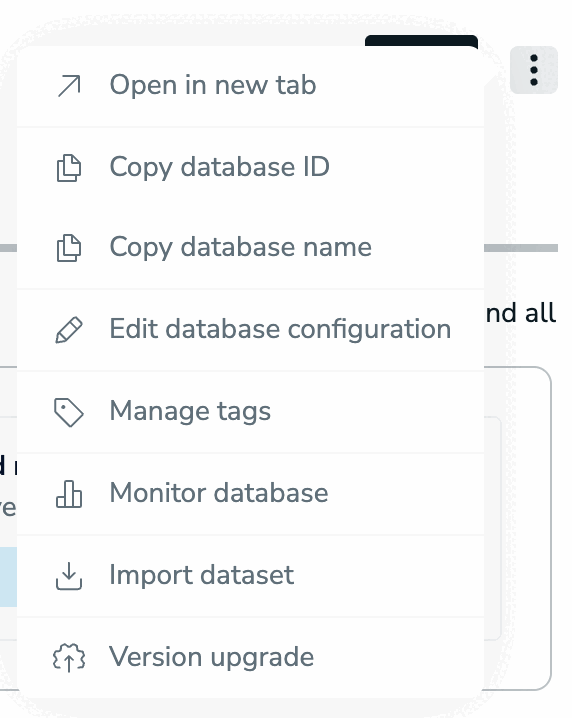
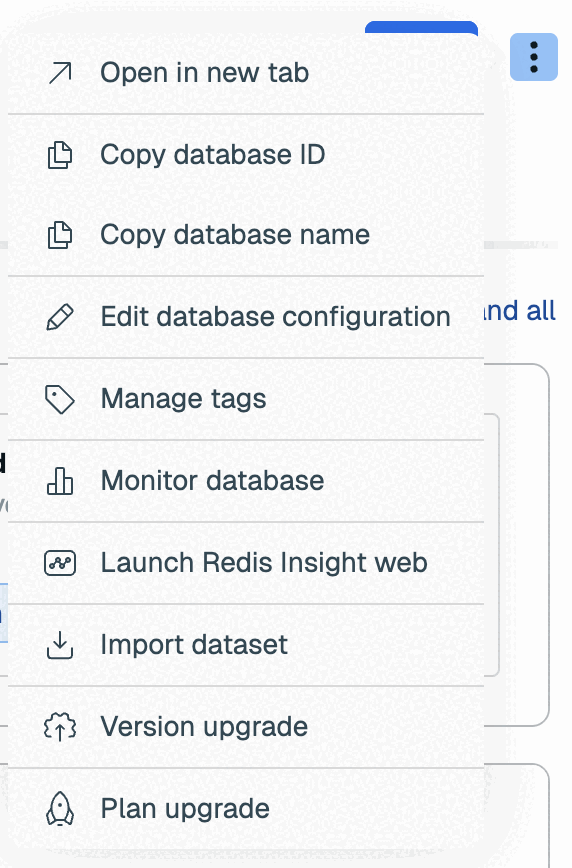
DOC-5955, DOC-5989, plus rebrand images for upgrade DB

diff --git a/content/operate/rc/databases/version-management/upgrade-version.md b/content/operate/rc/databases/version-management/upgrade-version.md
@@ -12,17 +12,7 @@ aliases:
   - /rc/databases/upgrade-version
 ---
 
-Database version upgrade options depend on your plan type.
-
-## Redis Cloud Essentials
-
-All new Redis Cloud Essentials databases are on the latest available version of Redis.
-
-Redis will notify users when new database versions are available, but upgrades must be done manually.
-
-## Redis Cloud Pro
-
-You can upgrade Redis Cloud Pro databases that are not on the latest available version of Redis to a later version at any time.
+You can upgrade databases that are not on the latest available version of Redis to a later version at any time.
 
 {{< note >}}
 Please keep in mind the following before upgrading your database version:
@@ -40,9 +30,9 @@ Please keep in mind the following before upgrading your database version:
 - You must upgrade the target database in an [Active-Passive]({{< relref "/operate/rc/databases/migrate-databases#sync-using-active-passive" >}}) setup before you upgrade the source database to prevent compatibility issues.
 {{< /note >}}
 
-### Upgrade Redis Cloud Pro database
+## Upgrade database
 
-To upgrade a Redis Cloud Pro database: 
+To upgrade a Redis Cloud database: 
 
 1. Choose your database from the **Databases** list to open your database page. Select **More actions > Version upgrade**.
 
@@ -64,7 +54,7 @@ The database will start upgrading to the selected version immediately. The upgra
 
 You can continue to use the Redis Cloud console for other tasks during the upgrade.
 
-### Manually revert upgrade
+## Manually revert upgrade
 
 Automatically reverting to a previous Redis version is not supported on Redis Cloud.
 

diff --git a/content/operate/rc/databases/version-management/_index.md b/content/operate/rc/databases/version-management/_index.md
@@ -31,10 +31,12 @@ Redis uses a **MAJOR.MINOR.PATCH** versioning scheme:
 | Version | Status | EOL Date | Plans |
 |---------|--------|----------|-------|
 | **Redis 8.2** | GA | TBD | Essentials, Pro |
-| **Redis 8.0** | Preview | TBD | Essentials |
+| **Redis 8.0** | Preview | TBD | Essentials<sup>[1](#table-note-1)</sup> |
 | **Redis 7.4** | GA | December 1, 2029 | Essentials, Pro |
 | **Redis 7.2** | GA | December 1, 2029 | Essentials, Pro |
 | **Redis 6.2** | GA | April 1, 2027 | Pro |
+
+1. <a name="table-note-1" style="display: block; height: 80px; margin-top: -80px;"></a> Redis 8.0 is not available for new databases.
 
 When a version reaches End-of-Life (EOL), Redis Cloud will automatically upgrade your database to the following minor version during maintenance windows if you do not manually upgrade before EOL.
 
